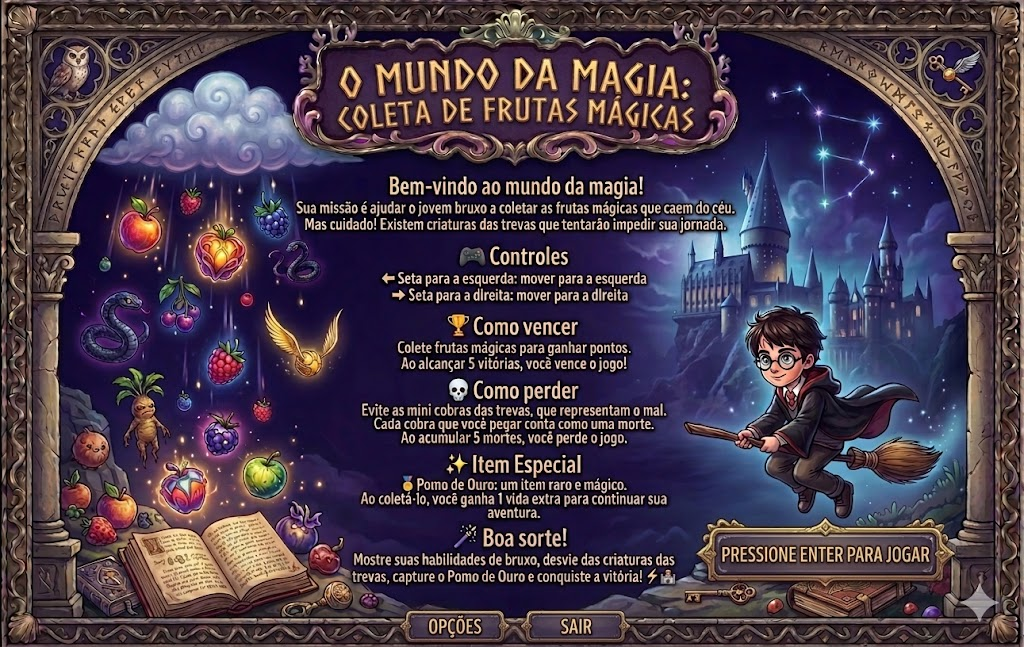
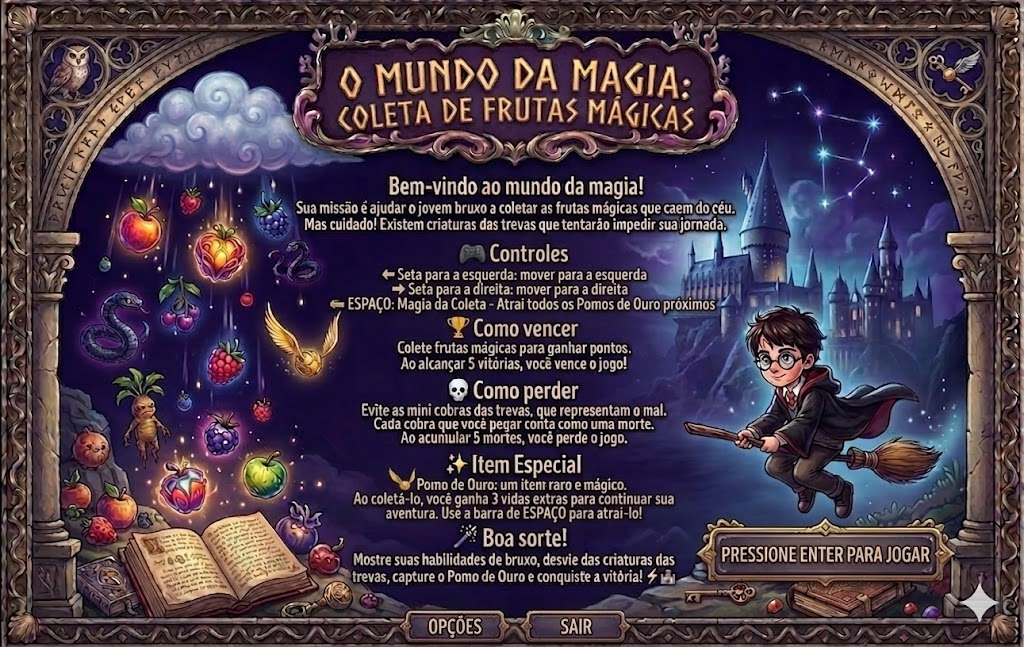
add:mod

diff --git a/main.py b/main.py
@@ -43,17 +43,25 @@ lista_inimigo = [Inimigo(pygame.image.load("src/img/cobra_inimigo.jpg")),
                  Inimigo(pygame.image.load("src/img/cobra_inimigo.jpg"))]
 
 #colocando o bonus 
-
 lista_bonus = [Bonus(pygame.image.load("src/img/salva_vidas.jpg")),
                Bonus(pygame.image.load("src/img/salva_vidas.jpg")),
                Bonus(pygame.image.load("src/img/salva_vidas.jpg")),]
+
+
+
+fonte_texto = pygame.font.SysFont("arial",24,True)
+fonte_textop = pygame.font.SysFont("arial",24,True)
+
+
+
 #contadores
-morte = 0 
-contador_ganhou = 0
+contador_pontos = 0 
+contador_mortes = 0 
 status_jogo = "INICIO"
 
 rodando = True
 while rodando:
+
     tecla_pressionada = pygame.key.get_pressed()#retorna a tecla que eu estou pressionando
      #Pego todos os eventos que aconteceu na janela 
     lista_eventos = pygame.event.get()
@@ -62,7 +70,6 @@ while rodando:
         #Se um dos eventos for ter clicado no X eu encerro o programa 
         if evento.type == pygame.QUIT:
             rodando = False
-
 
     if status_jogo == "INICIO":
         tela.blit(capa,(0,0))
@@ -73,10 +80,12 @@ while rodando:
     if status_jogo == "JOGANDO":
         #inserindo a imagem        
         tela.blit(jardim,(0,0))
-        #texto_morte = fonte_texto.render(f"MORTES:{morte}",False,[0,0,0]) 
-        #tela.blit(texto_morte,(600,10))
-        #texto_pontos = fonte_texto.render(f"PONTOS:{contador_ganhou}",False,[0,0,0])
-        #tela.blit(texto_pontos,(450,10))
+        texto_morte = fonte_texto.render(f"MORTES:{contador_mortes}",False,[0,0,0]) 
+        tela.blit(texto_morte,(600,10))
+        texto_pontos = fonte_texto.render(f"PONTOS:{contador_pontos}",False,[0,0,0])
+        tela.blit(texto_pontos,(450,10))
+
+
         #colocando a harry
         mini_harry.andar(tecla_pressionada)
         mini_harry.exibir(tela)
@@ -86,15 +95,50 @@ while rodando:
             inimigo.andar()
             inimigo.exibir(tela)
 
-        #colocando as frutas  
-        for frutas in lista_frutas:
-            frutas.andar()
-            frutas.exibir(tela)
-
         #colocando o bonus  
         for bonus in lista_bonus:
             bonus.andar()
             bonus.exibir(tela)
+
+        #frutas dando certo 
+        for frutas in lista_frutas:
+            frutas.andar()
+            frutas.exibir(tela)
+            if frutas.mascara2.overlap(mini_harry.mascara,(mini_harry.pos_x-frutas.pos_frutas_x,mini_harry.pos_y-frutas.pos_frutas_y)):
+                contador_pontos = contador_pontos + 1
+                frutas.voltar()
+
+        #inimigo funcionando
+        for inimigo in lista_inimigo:
+            inimigo.andar()
+            inimigo.exibir(tela)
+            if  inimigo.mascara3.overlap(mini_harry.mascara,(mini_harry.pos_x-inimigo.pos_inimigo_x,mini_harry.pos_y-inimigo.pos_inimigo_y)):
+                contador_mortes = contador_mortes + 1
+                inimigo.voltar()
+        if contador_mortes == 5 :
+            status_jogo = "FIM"
+
+        if status_jogo == "FIM" :
+            tela.blit(capa_perda,(0,0))
+            if tecla_pressionada[pygame.K_RETURN] or tecla_pressionada[pygame.K_KP_ENTER] :
+                contador_mortes = 0 
+                contador_pontos = 0 
+                status_jogo = "JOGANDO"
+                
+        #bonus funcionando
+        for bonus in lista_bonus:
+            bonus.andar()
+            bonus.exibir(tela)
+            if  bonus.mascara4.overlap(mini_harry.mascara,(mini_harry.pos_x-bonus.pos_bonus_x,mini_harry.pos_y-bonus.pos_bonus_y)):
+                contador_pontos = contador_pontos + 3
+                bonus.voltar()
+
+            if tecla_pressionada[pygame.K_SPACE]  :
+                bonus.pos_bonus_x,bonus.pos_bonus_y = mini_harry.pos_x,mini_harry.pos_y
+                poder = True
+                if  bonus.mascara4.overlap(mini_harry.mascara,(mini_harry.pos_x-bonus.pos_bonus_x,mini_harry.pos_y-bonus.pos_bonus_y)):
+                    contador_pontos =+ 3
+                    bonus.voltar()
 
     pygame.display.update() 
     clock.tick(60)

diff --git a/classe_inimigo.py b/classe_inimigo.py
@@ -6,12 +6,12 @@ class Inimigo:
     def __init__(self,endereco_imagem):
         self.imagem = endereco_imagem
         self.imagem = pygame.transform.scale_by(self.imagem,0.20)
-        self.mascara = pygame.mask.from_surface(self.imagem)
+        self.mascara3 = pygame.mask.from_surface(self.imagem)
             
         self.pos_inimigo_y = 0
         lista_lugares= [300,400,500,600,700,800,900,100]
         self.pos_inimigo_x = random.choice(lista_lugares)
-        self.velocidade = random.randint(5,14)
+        self.velocidade = random.randint(4,5)
 
     def andar(self):
         self.pos_inimigo_y += self.velocidade
@@ -25,4 +25,4 @@ class Inimigo:
         self.pos_inimigo_y = 0
         lista_lugares= [300,400,500,600,700,800,900,100]
         self.pos_inimigo_x = random.choice(lista_lugares)
-        self.velocidade = random.randint(5,14)
+        self.velocidade = random.randint(4,5)

diff --git a/classe_frutas.py b/classe_frutas.py
@@ -6,12 +6,12 @@ class Frutas:
     def __init__(self,endereco_imagem):
         self.imagem = endereco_imagem
         self.imagem = pygame.transform.scale_by(self.imagem,0.22)
-        self.mascara = pygame.mask.from_surface(self.imagem)
+        self.mascara2 = pygame.mask.from_surface(self.imagem)
         
         self.pos_frutas_y = 0
         lista_lugares= [300,400,500,600,700,800,900,100]
         self.pos_frutas_x = random.choice(lista_lugares)
-        self.velocidade = random.randint(5,14)
+        self.velocidade = random.randint(4,5)
 
     def andar(self):
         self.pos_frutas_y += self.velocidade
@@ -25,4 +25,4 @@ class Frutas:
         self.pos_frutas_y = 0
         lista_lugares= [300,400,500,600,700,800,900,100]
         self.pos_frutas_x = random.choice(lista_lugares)
-        self.velocidade = random.randint(5,14)
+        self.velocidade = random.randint(4,5)

diff --git a/classe_bonus.py b/classe_bonus.py
@@ -6,12 +6,12 @@ class Bonus:
     def __init__(self,endereco_imagem):
         self.imagem = endereco_imagem
         self.imagem = pygame.transform.scale_by(self.imagem,0.20)
-        self.mascara = pygame.mask.from_surface(self.imagem)
+        self.mascara4 = pygame.mask.from_surface(self.imagem)
             
         self.pos_bonus_y = 0
         lista_lugares= [300,400,500,600,700,800,900,100]
         self.pos_bonus_x = random.choice(lista_lugares)
-        self.velocidade = random.randint(5,14)
+        self.velocidade = random.randint(4,5)
 
     def andar(self):
         self.pos_bonus_y += self.velocidade
@@ -25,4 +25,4 @@ class Bonus:
         self.pos_bonus_y = 0
         lista_lugares= [300,400,500,600,700,800,900,100]
         self.pos_bonus_x = random.choice(lista_lugares)
-        self.velocidade = random.randint(5,14)
+        self.velocidade = random.randint(4,5)
